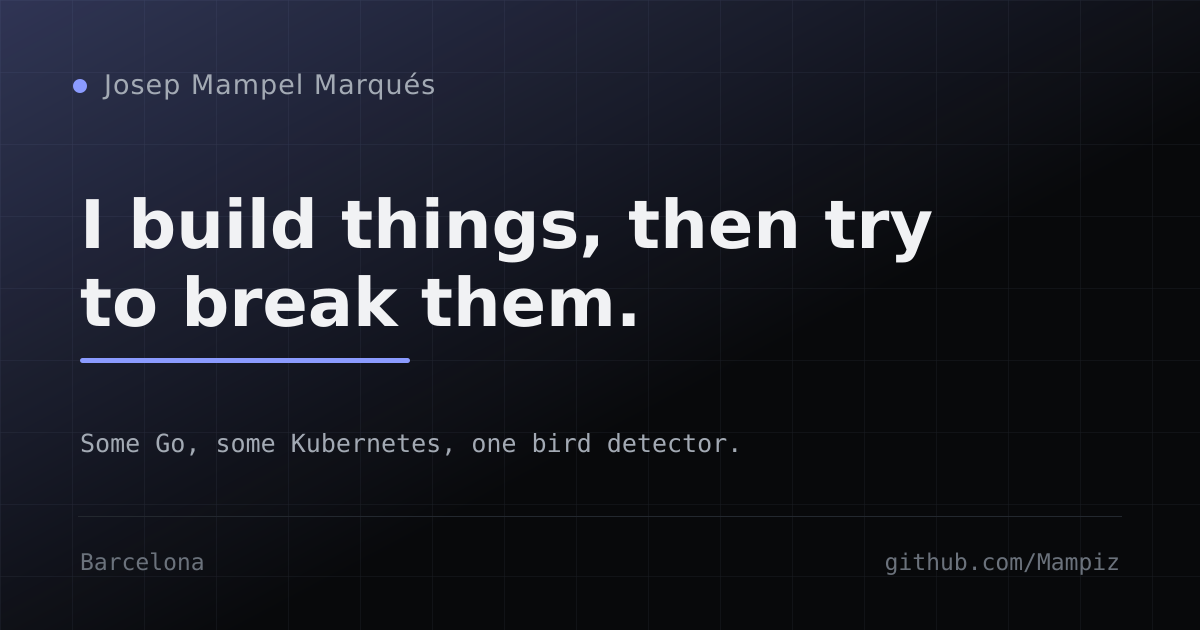
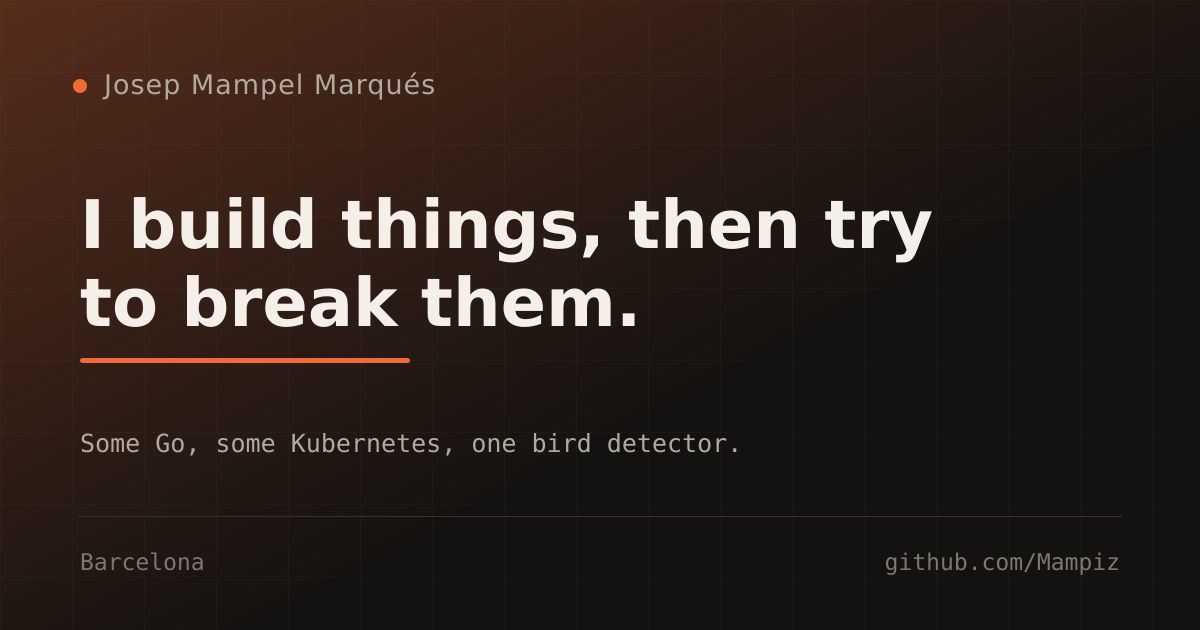
feat(site): move to a cream and terracotta palette with a warm dark theme

Changed region(s): [[0.0, 0.0, 0.6475, 0.6635]]

diff --git a/src/styles/global.css b/src/styles/global.css
@@ -7,24 +7,24 @@
 --------------------------------------------------------------------------- */
 
 :root {
-  --c-bg: #08090b;
-  --c-bg-soft: #0d0f13;
-  --c-surface: #121519;
-  --c-surface-2: #171b21;
-  --c-line: #23282f;
-  --c-line-soft: #191d23;
-  --c-text: #f1f2f4;
-  --c-dim: #a3aab4;
-  --c-mute: #6b727c;
-  --c-accent: #8b9bff;
-  --c-accent-ink: #0a0b12;
-  --c-accent-soft: rgba(139, 155, 255, 0.14);
-  --c-glow: rgba(139, 155, 255, 0.28);
-  --c-ghost: #454b58;
-  --c-card: #11141a;
-  --c-card-ink: #f1f2f4;
-  --c-card-dim: #a3aab4;
-  --c-card-line: #262c35;
+  --c-bg: #141210;
+  --c-bg-soft: #191714;
+  --c-surface: #1e1c19;
+  --c-surface-2: #262320;
+  --c-line: #34312c;
+  --c-line-soft: #292622;
+  --c-text: #f4f0e9;
+  --c-dim: #b0aa9f;
+  --c-mute: #7d776c;
+  --c-accent: #f26a37;
+  --c-accent-ink: #14110d;
+  --c-accent-soft: rgba(242, 106, 55, 0.15);
+  --c-glow: rgba(242, 106, 55, 0.26);
+  --c-ghost: #4a453d;
+  --c-card: #1e1c19;
+  --c-card-ink: #f4f0e9;
+  --c-card-dim: #b0aa9f;
+  --c-card-line: #34312c;
 
   --shadow-card: 0 1px 0 rgba(255, 255, 255, 0.03) inset,
     0 24px 60px -30px rgba(0, 0, 0, 0.9);
@@ -33,33 +33,31 @@
 }
 
 /*
- * Light is warm paper, not screen white. The page sits around 91% lightness so
- * a full screen of it is easy to look at, cards are a shade lighter so they
- * still lift, and the whole ramp is warmed slightly to keep the cool blue of
- * the screenshots from making everything look grey and dead.
+ * Light is cream, not screen white: warm enough to sit with the terracotta
+ * accent, light enough to read a full screen of it.
  */
 :root[data-theme="light"] {
-  --c-bg: #e9e7e2;
-  --c-bg-soft: #e0ddd7;
-  --c-surface: #f7f6f3;
-  --c-surface-2: #eeece7;
-  --c-line: #d1cdc5;
-  --c-line-soft: #dedad3;
-  --c-text: #1a1916;
-  --c-dim: #55524b;
-  --c-mute: #817d75;
-  --c-accent: #3b41c4;
+  --c-bg: #f5efe4;
+  --c-bg-soft: #ece4d4;
+  --c-surface: #fffaf0;
+  --c-surface-2: #f0e8d8;
+  --c-line: #dccfb8;
+  --c-line-soft: #e8dcc7;
+  --c-text: #1d1a14;
+  --c-dim: #5a5242;
+  --c-mute: #8a806b;
+  --c-accent: #c4431b;
   --c-accent-ink: #ffffff;
-  --c-accent-soft: rgba(59, 65, 196, 0.09);
-  --c-glow: rgba(59, 65, 196, 0.16);
-  --c-ghost: #c6c2b9;
-  --c-card: #f7f6f3;
-  --c-card-ink: #1a1916;
-  --c-card-dim: #55524b;
-  --c-card-line: #d1cdc5;
+  --c-accent-soft: rgba(196, 67, 27, 0.1);
+  --c-glow: rgba(196, 67, 27, 0.16);
+  --c-ghost: #d9ceb8;
+  --c-card: #fffaf0;
+  --c-card-ink: #1d1a14;
+  --c-card-dim: #5a5242;
+  --c-card-line: #dccfb8;
 
   --shadow-card: 0 1px 0 rgba(255, 255, 255, 0.7) inset,
-    0 18px 38px -26px rgba(40, 36, 30, 0.4);
+    0 18px 38px -26px rgba(60, 44, 20, 0.35);
 
   color-scheme: light;
 }
